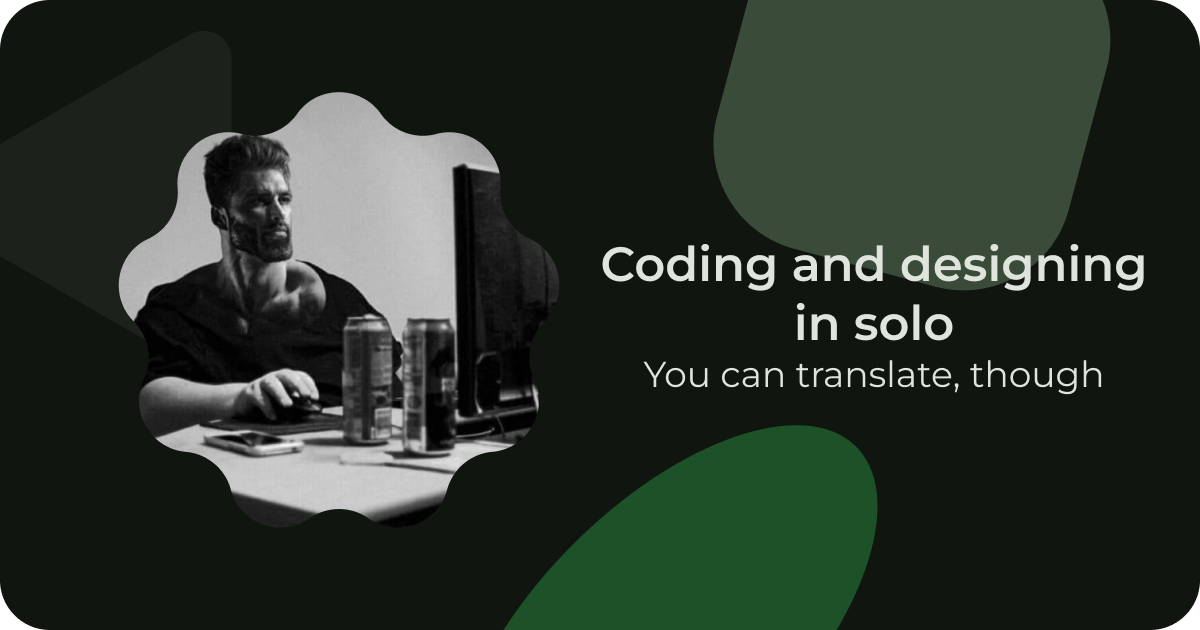
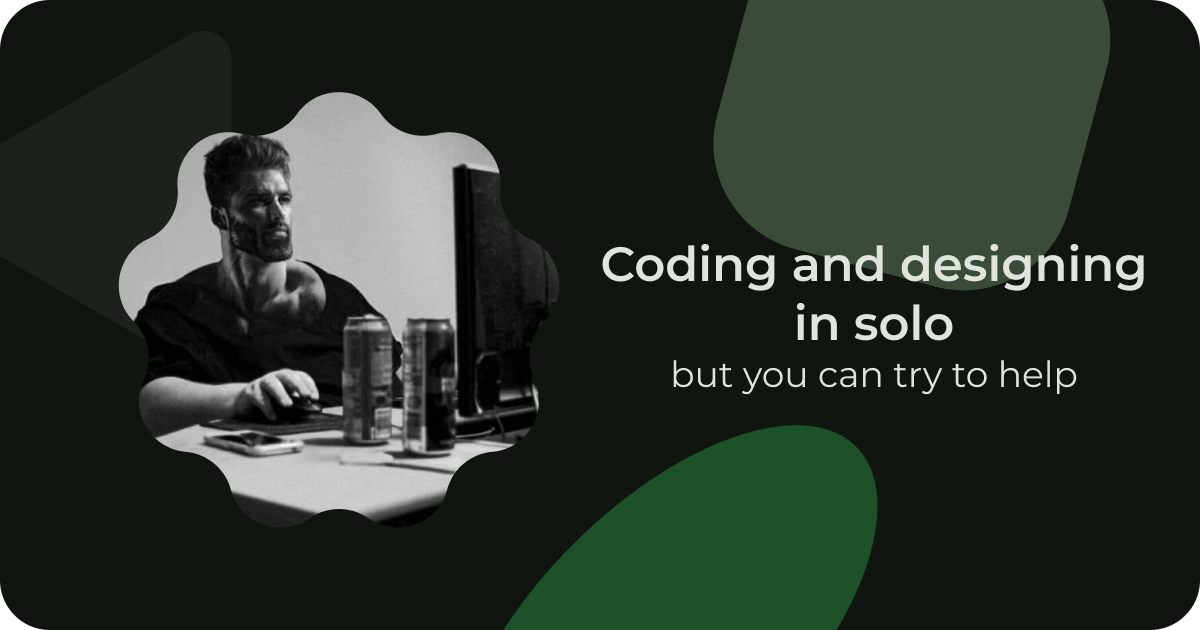
update readme

Changed region(s): [[0.5242, 0.573, 0.925, 0.6333]]

diff --git a/CONTRIBUTING.md b/CONTRIBUTING.md
@@ -1,0 +1,57 @@
+# Introduction
+
+- Main development branch with latest commits: `dev` (for PRs)
+- This project is NOT beginner/students friendly
+- Line separator: **CRLF**. Currently no plans for **LF**
+- Any usage of "AI" is strictly forbidden
+- Any usage of copyrighted materials without permission is strictly forbidden
+
+Steps:
+
+1. Read this file
+2. Choose what you want to contribute
+3. Open an issue (unl)
+4. Wait for approval
+5. Contribute
+
+Contributions:
+- [Translations](#translations)
+- [Code contributions](#code-contributions)
+- [Small changes](#small-changes)
+
+Do NOT contribute:
+
+- Branding material changes
+- Malicious code, obviously
+
+## Translations
+
+- Follow [the official guide](https://developer.android.com/studio/write/translations-editor)
+- Currently not using web-based translation tools due to some issues (will resolve later)
+- Lines in translations are cleared when original text changes significantly to avoid inconsistency. You will NOT be notified
+- Keep punctuation consistent. If the original sentence ends with a comma, you need to include it too
+
+### Add new language
+
+- Open issue
+- Wait for approval
+- Open PR
+
+### Edit existing translation
+
+- Open PR. No need to open issues
+
+## Code contributions
+
+- Always open a new issue and wait for approval
+- Explore the codebase. Each module has a README file. For example, [app module](./app/README.md)
+- Use ktfmt (Google internal) formatter
+- Use detekt (optional)
+- Write tests
+- Write comments if necessary
+- Avoid touching user data unless it's really necessary
+- State external sources if you used any
+
+## Small changes
+
+Only open an issue, do NOT open PRs.

diff --git a/README.md b/README.md
@@ -27,10 +27,9 @@ Also available in ***Play Store*** (link will not be provided, search in store)
     <a href="https://github.com/sadellie/unitto/discussions/new/choose"><img alt="Discussions" src="./content/discussion.svg" height="60"/></a>
 </p>
 
-1. Code contributions are **NOT** accepted at the moment
-2. Translations are **NOT** accepted due to some issues
-3. Hard forks and alterations of Unitto are **NOT** welcomed. Use a _Fork_ button so that commits' author is not lost
-4. Do **NOT** use branding materials (app name, icons, descriptions, screenshots and other materials)
+1. Read [CONTRIBUTING.md](./CONTRIBUTING.md)
+2. Hard forks and alterations of Unitto are **NOT** welcomed. Use a _Fork_ button so that commits' author is not lost
+3. Do **NOT** use branding materials (app name, icons, descriptions, screenshots and other materials)
 
 # ⚠ Security
 Read [this](./SECURITY.md).
